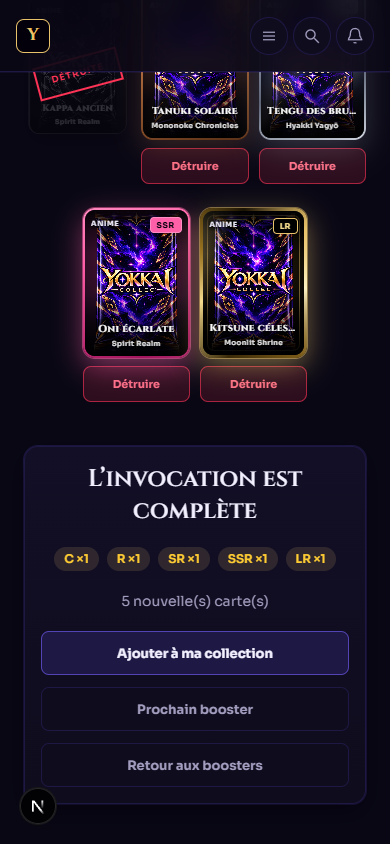
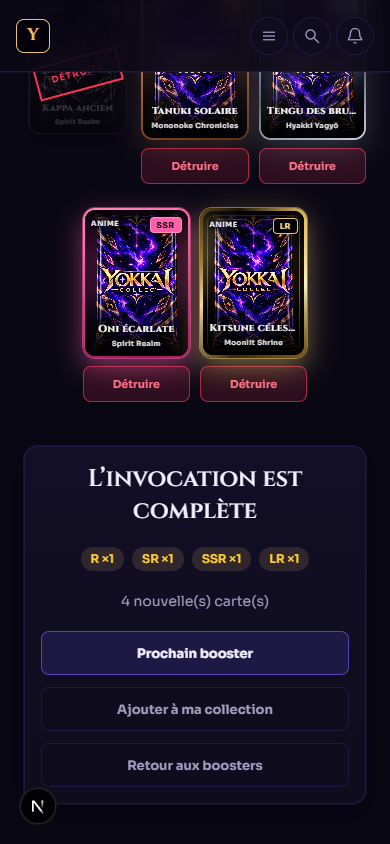
feat: lead Regular Pack summary with next booster action

diff --git a/components/boosters.tsx b/components/boosters.tsx
@@ -40,6 +40,7 @@ export function BoosterReveal({ cards, revealed, onReveal, onReturn, onNext, nex
   const revealTimer = useRef<number | null>(null);
   const next = useRef<HTMLButtonElement>(null);
   const completeLink = useRef<HTMLAnchorElement>(null);
+  const nextBooster = useRef<HTMLButtonElement>(null);
   const current = cards[revealed];
   const done = revealed >= cards.length;
   // Summary counts only the cards that stay in the collection (not destroyed, not lost in a Decision Pack).
@@ -53,7 +54,7 @@ export function BoosterReveal({ cards, revealed, onReveal, onReturn, onNext, nex
     return () => clearTimeout(timer);
   }, [faceUp, spot, revealLocked, deposit]);
   useEffect(() => () => { if (revealTimer.current) window.clearTimeout(revealTimer.current); }, []);
-  useEffect(() => { if (done && !choosing) completeLink.current?.focus({preventScroll:true}); else next.current?.focus({preventScroll:true}); }, [done, choosing]);
+  useEffect(() => { if (done && !choosing) (nextBooster.current && !nextBooster.current.disabled ? nextBooster.current : completeLink.current)?.focus({preventScroll:true}); else next.current?.focus({preventScroll:true}); }, [done, choosing]);
   function flip() {
     if (!current) return;
     if (faceUp) { if (!revealLocked) deposit(); return; }
@@ -247,7 +248,7 @@ export function BoosterReveal({ cards, revealed, onReveal, onReturn, onNext, nex
     })}</ol>
     {error && <p role="alert" className="mt-5 text-center text-sm text-danger">{error}</p>}
     {!done && !decision && <div className="yk-reveal-footer"><Button disabled>Ajouter à ma collection</Button><p className="text-xs text-ink-3">Révèle les {cards.length} cartes pour valider ton booster.</p></div>}
-    {done && !choosing && <div className={`yk-reveal-summary ${decision ? "yk-reveal-summary-decision" : ""}`}><h2 className="font-display text-2xl">{decision ? `Carte ajoutée à ta collection · +${decision.karasReward ?? 0} Karas depuis les cartes non conservées` : "L’invocation est complète"}</h2><div className="my-5 flex flex-wrap justify-center gap-2">{[...new Set(keptCards.map(c => c.rarity))].map(r => <StatusPill key={r}>{r} ×{keptCards.filter(c=>c.rarity===r).length}</StatusPill>)}</div>{cards.every(c => c.isNew !== undefined) && <p className="mb-5 text-sm text-ink-2">{keptCards.filter(c => c.isNew).length} nouvelle(s) carte(s)</p>}<div className="flex flex-wrap justify-center gap-3"><Link ref={completeLink} href="/collection" className="yk-button yk-button-primary">{decision ? "Voir ma collection" : "Ajouter à ma collection"}</Link>{onNext&&<Button variant="secondary" disabled={nextDisabled} onClick={onNext}>{nextLabel}</Button>}<Button variant="secondary" onClick={onReturn}>Retour aux boosters</Button></div></div>}
+    {done && !choosing && <div className={`yk-reveal-summary ${decision ? "yk-reveal-summary-decision" : ""}`}><h2 className="font-display text-2xl">{decision ? `Carte ajoutée à ta collection · +${decision.karasReward ?? 0} Karas depuis les cartes non conservées` : "L’invocation est complète"}</h2><div className="my-5 flex flex-wrap justify-center gap-2">{[...new Set(keptCards.map(c => c.rarity))].map(r => <StatusPill key={r}>{r} ×{keptCards.filter(c=>c.rarity===r).length}</StatusPill>)}</div>{cards.every(c => c.isNew !== undefined) && <p className="mb-5 text-sm text-ink-2">{keptCards.filter(c => c.isNew).length} nouvelle(s) carte(s)</p>}<div className="flex flex-wrap justify-center gap-3">{onNext&&<button type="button" ref={nextBooster} disabled={nextDisabled} onClick={onNext} className="yk-button yk-button-primary">{nextLabel}</button>}<Link ref={completeLink} href="/collection" className={`yk-button ${onNext ? "yk-button-secondary" : "yk-button-primary"}`}>{decision ? "Voir ma collection" : "Ajouter à ma collection"}</Link><Button variant="secondary" onClick={onReturn}>Retour aux boosters</Button></div></div>}
     <Modal open={!!spot} onClose={() => setSpot(null)} title={spot?.shiny ? "✦ Invocation Shiny ✦" : "Invocation légendaire"} className={`yk-invocation ${spot?.shiny ? "yk-invocation-shiny" : ""}`}>
       {spot && <div className="relative z-10 flex flex-col items-center gap-6"><div className="yk-invoked-card"><YokaiCard {...spot} /></div><h3 className="font-display text-[clamp(28px,4vw,44px)]">{spot.name}</h3>{spot.isNew && <StatusPill>NEW</StatusPill>}<Button variant="secondary" onClick={() => setSpot(null)}>Toucher pour continuer</Button></div>}
     </Modal>
